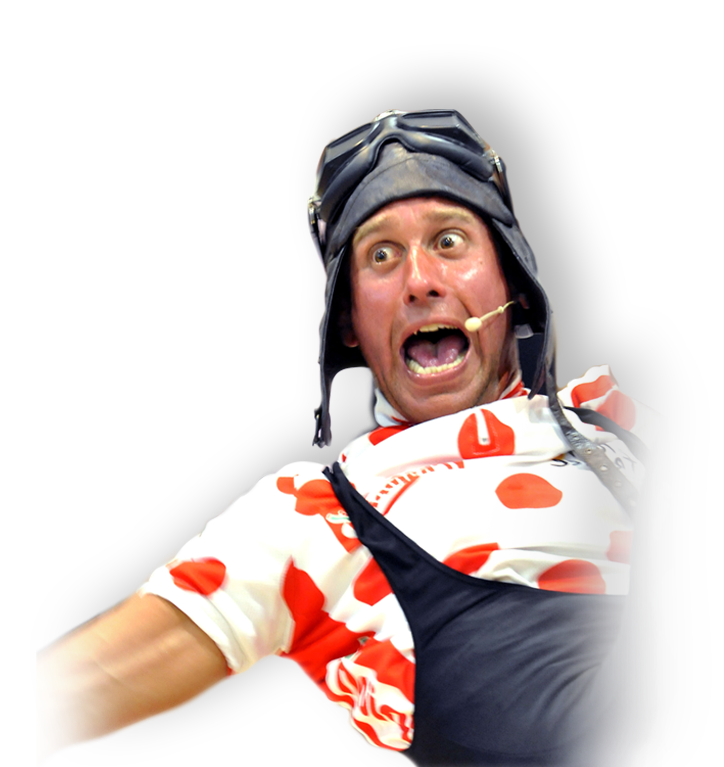
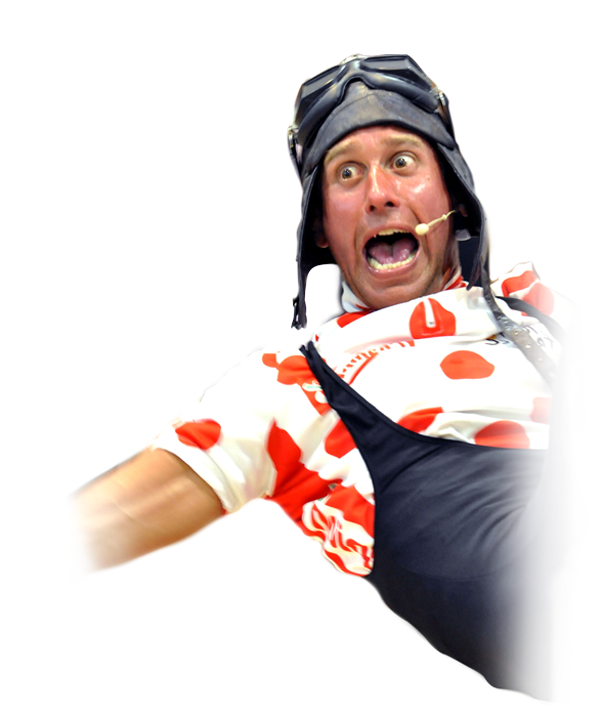
changed images and mixin for backgrounds

diff --git a/client/sass/init/_mixins.scss b/client/sass/init/_mixins.scss
@@ -21,7 +21,7 @@
 		width: 150%;
 		height: 100%;
 		background-color: darken($color, 10%);
-		@include transform(skewX($orientation + 20) translateX($position - 25));
+		@include transform(skewX($orientation + 15) translateX($position - 25));
 	}
 
 	&:after {

diff --git a/client/sass/views/_menu.scss b/client/sass/views/_menu.scss
@@ -22,7 +22,7 @@ nav {
 
 	ul {
 		display: block;
-		width: 235px;
+		width: 250px;
 		height: $nav-height;
 		margin: 0 auto;
 		padding: 0;
